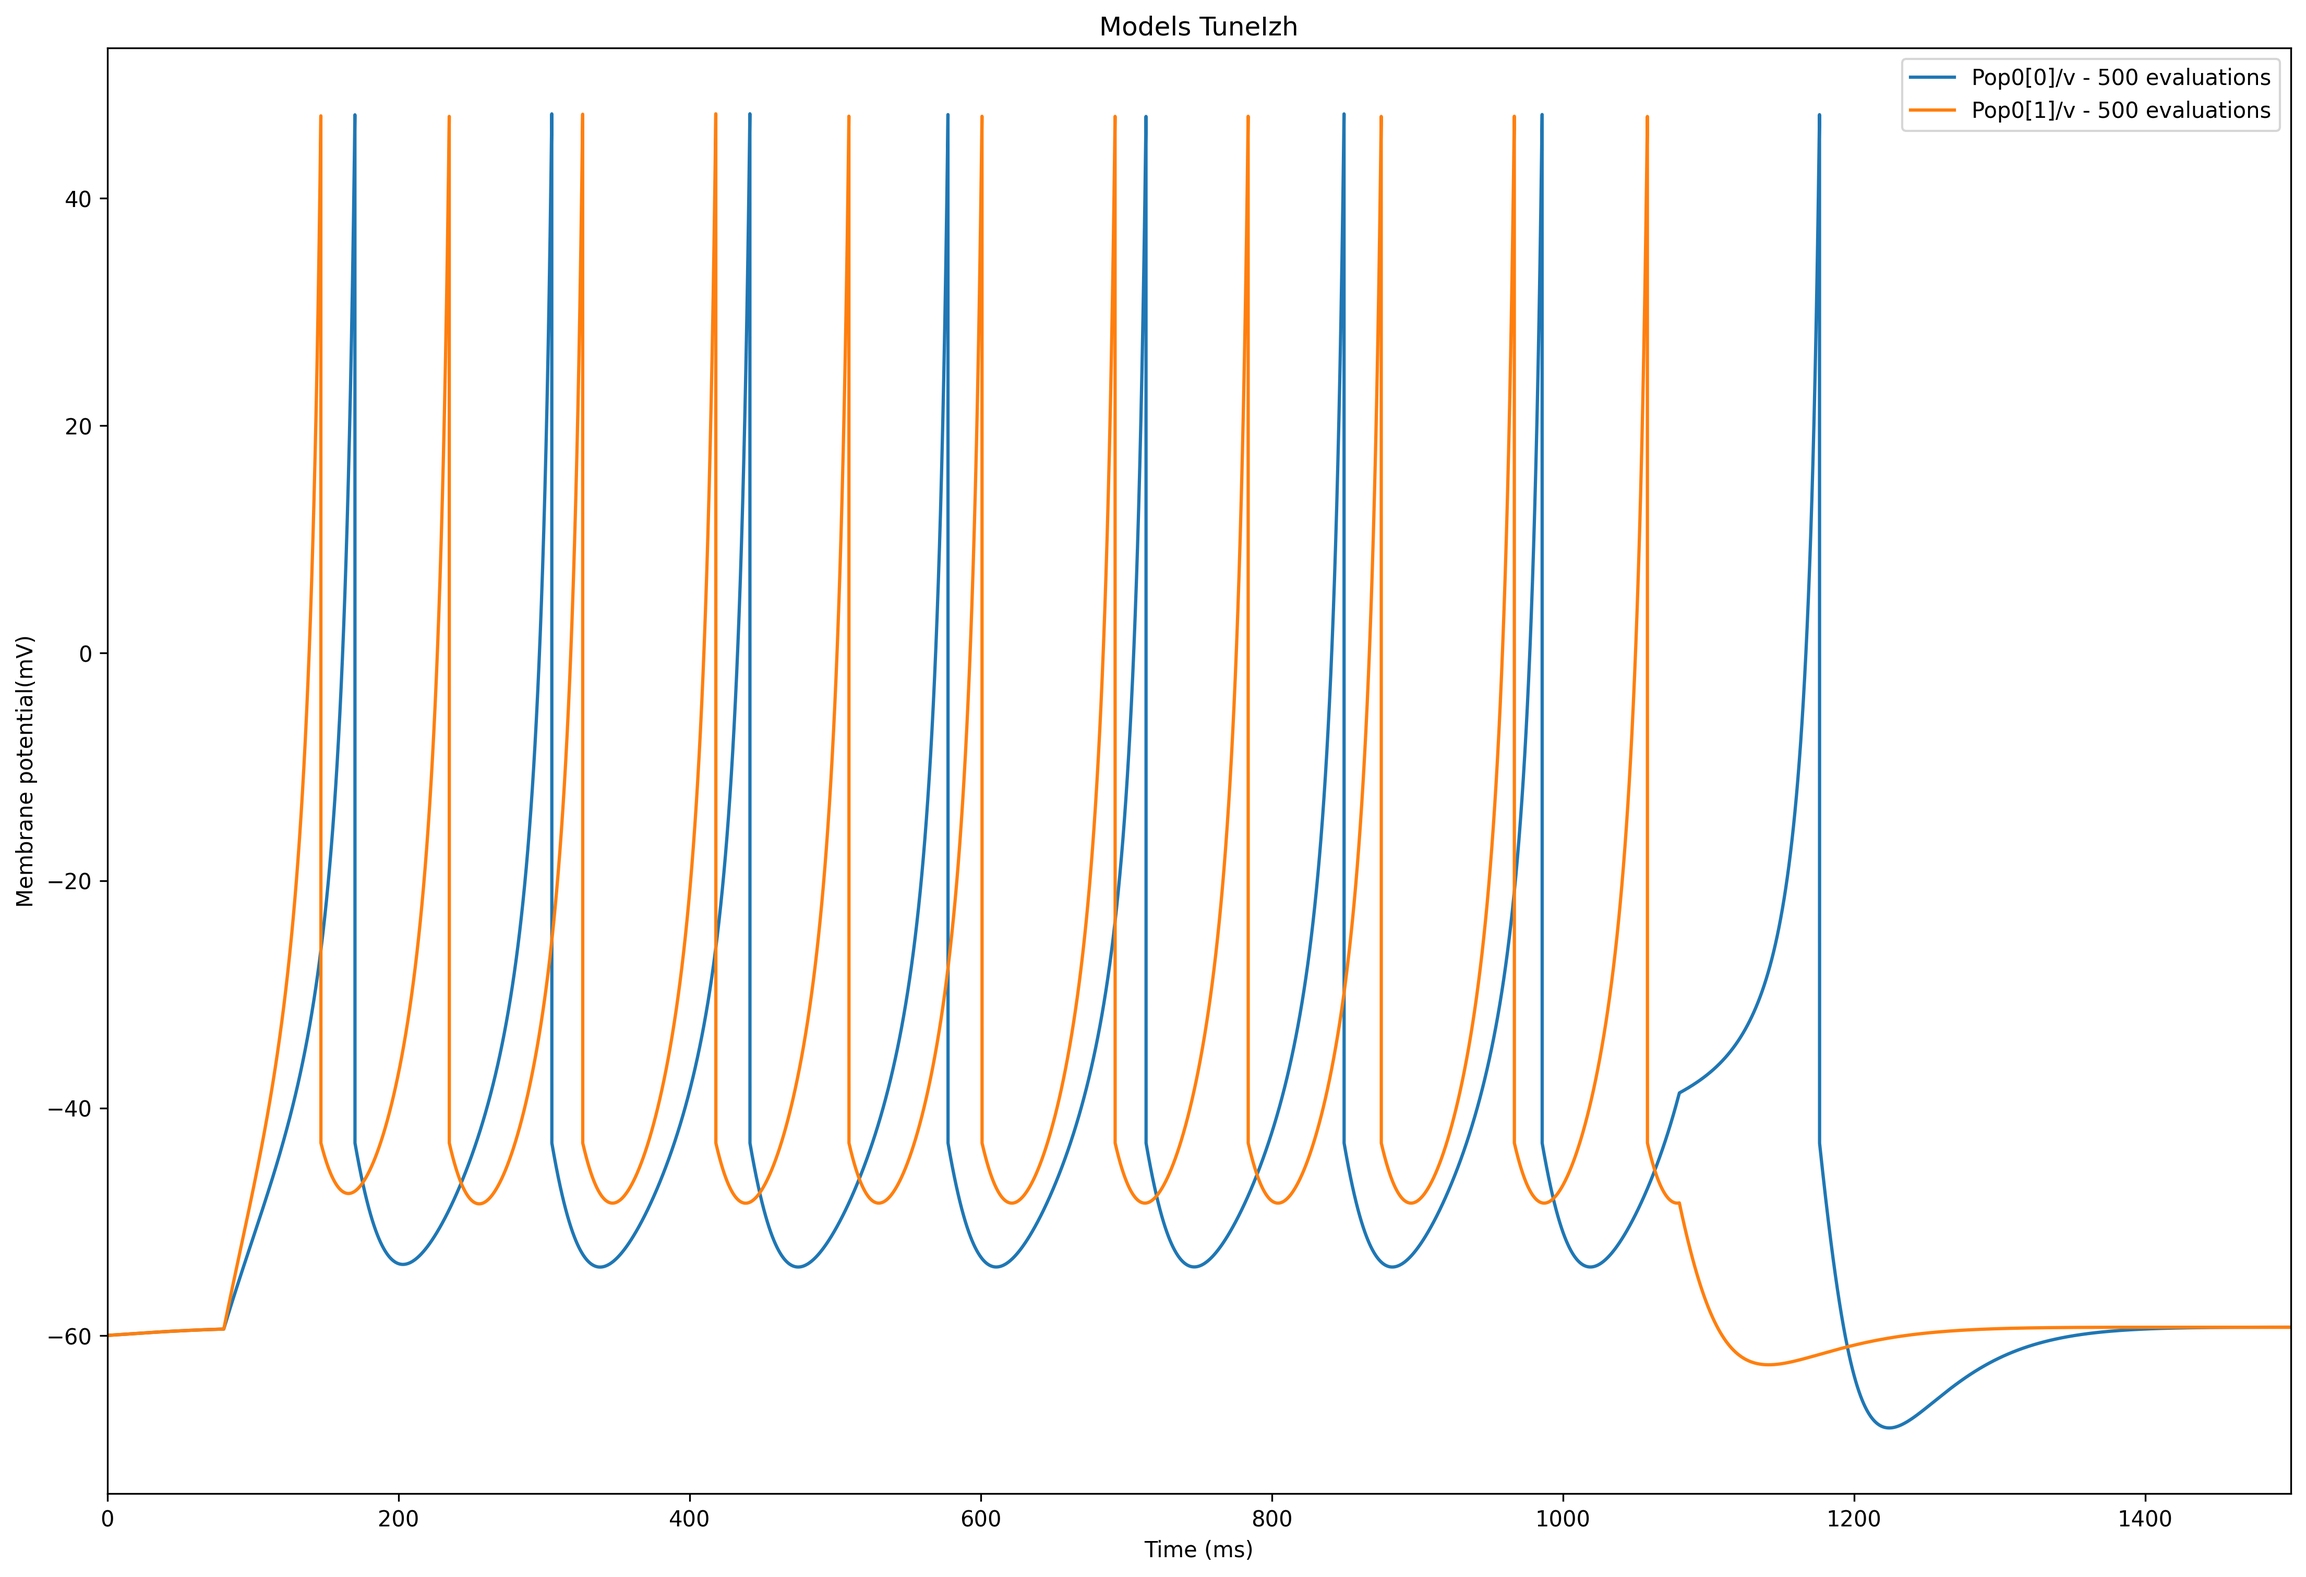
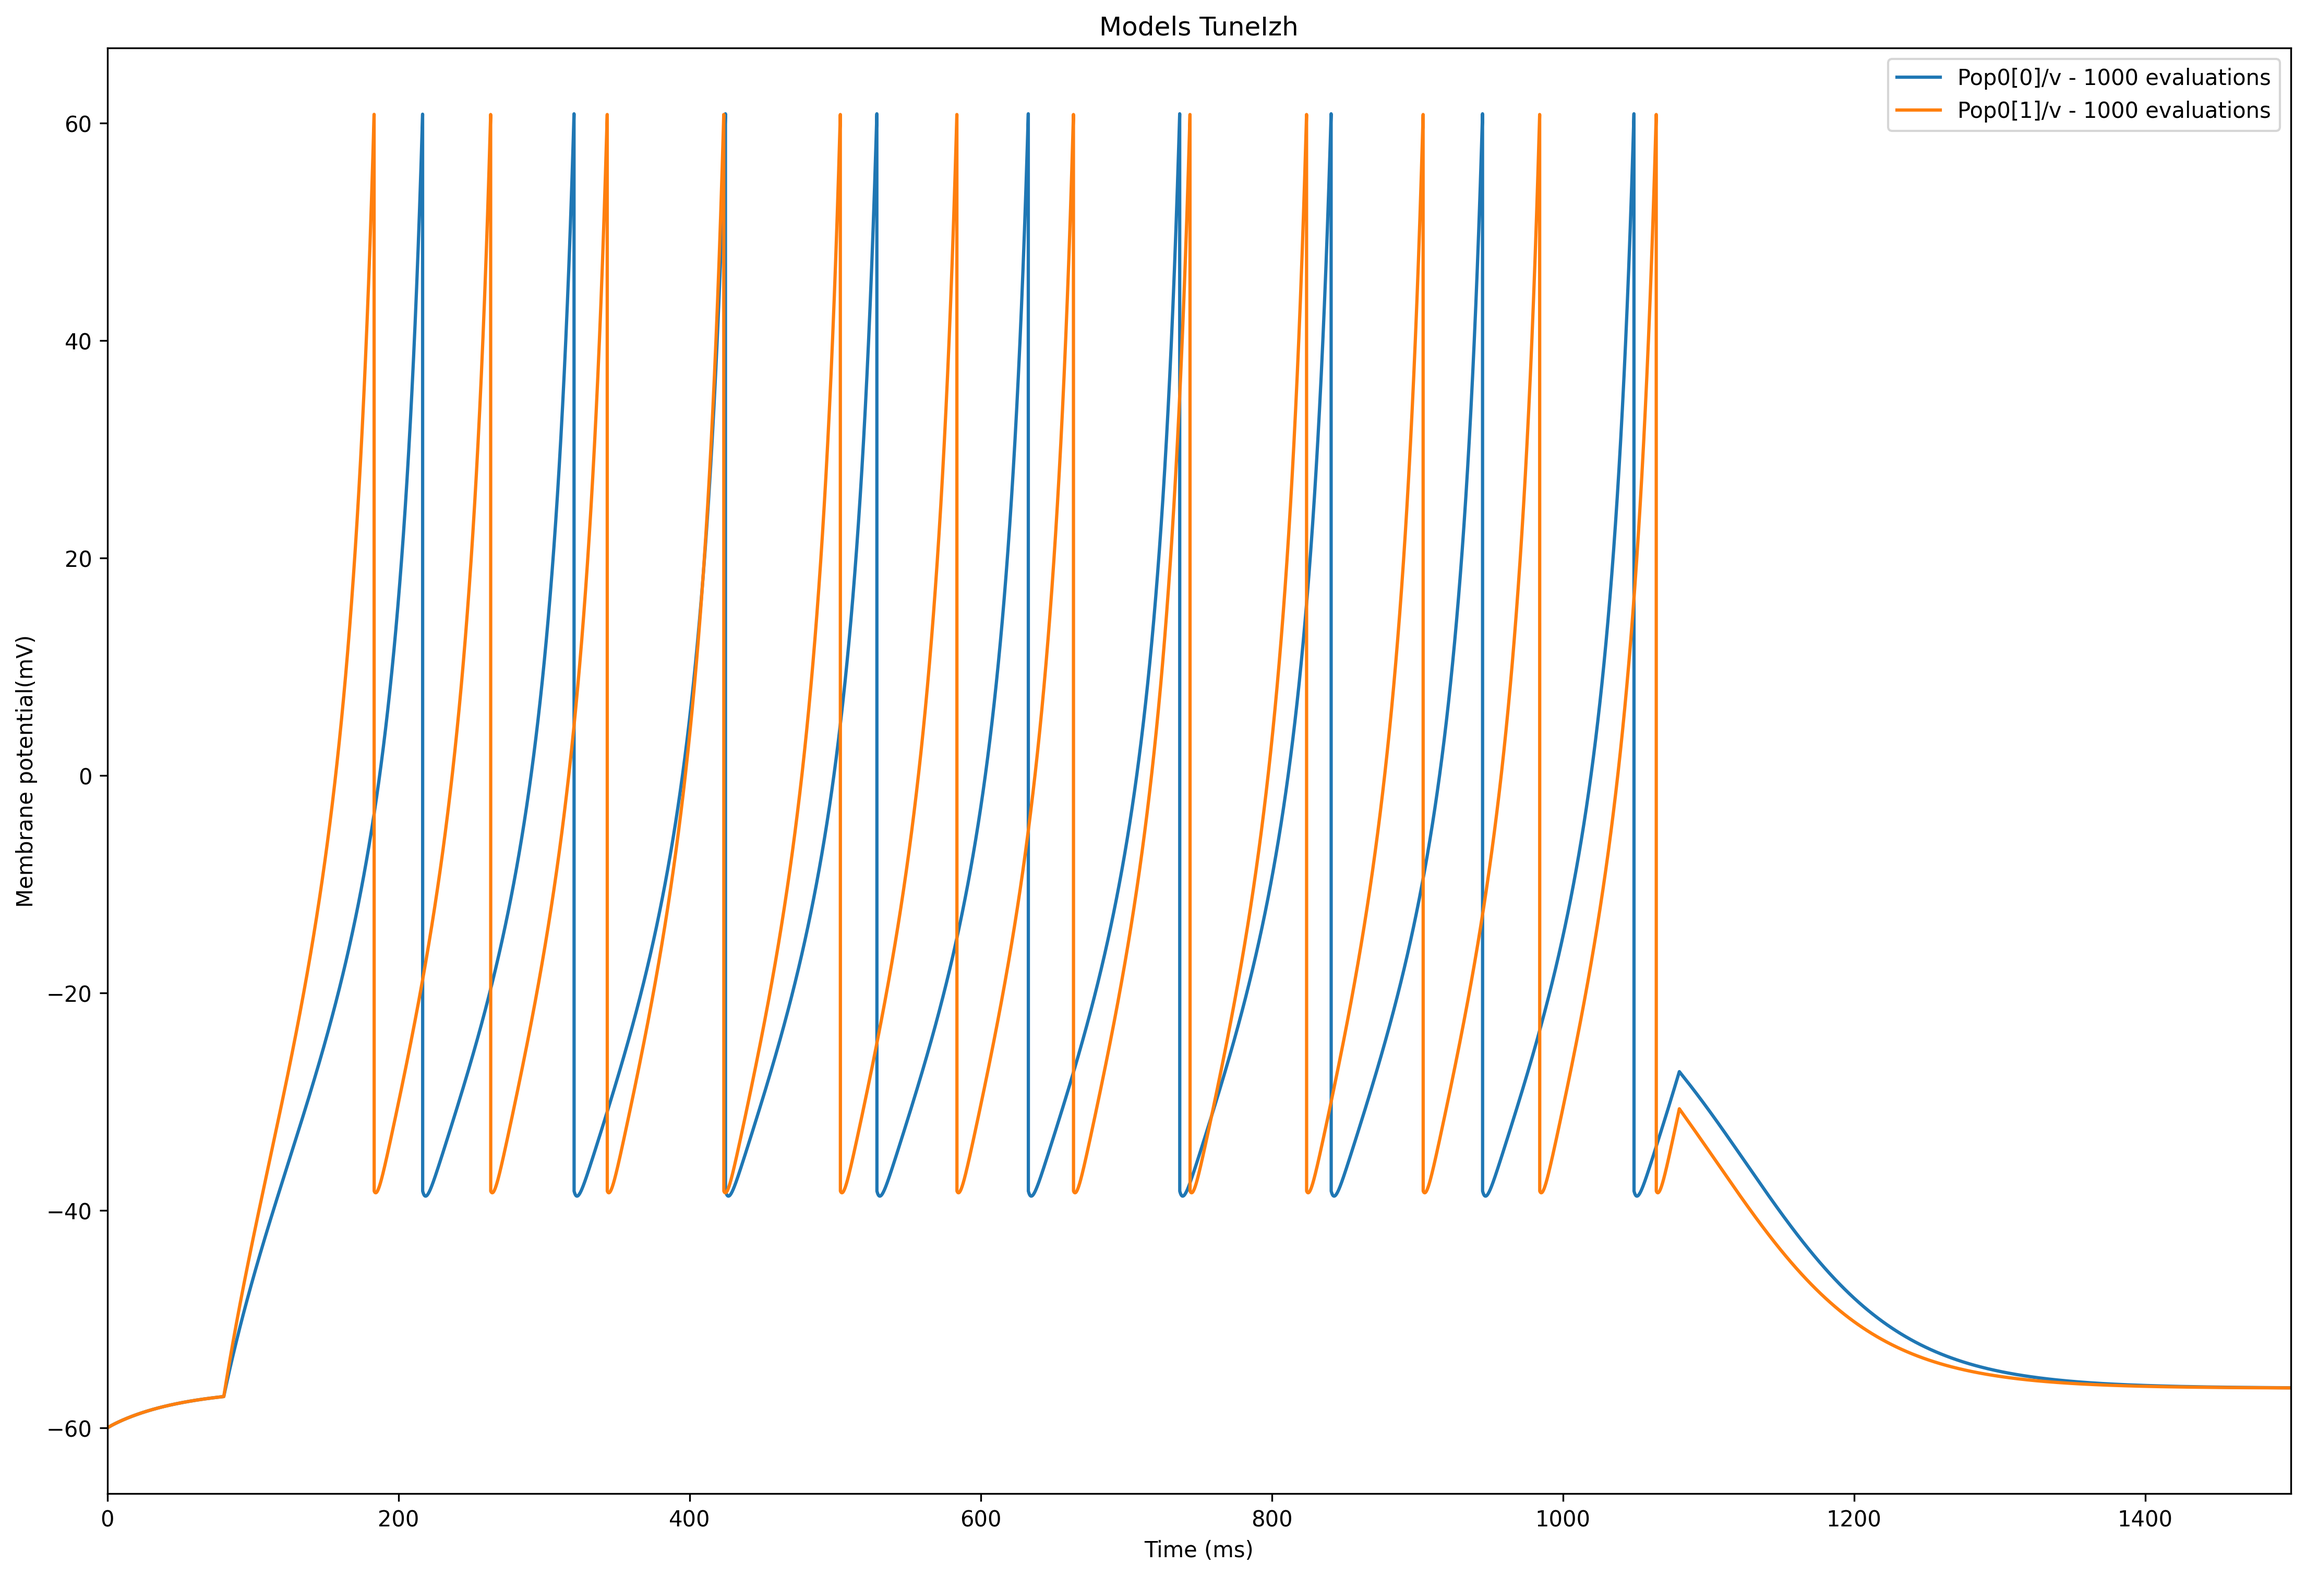
Tweaking params for izh

diff --git a/source/Userdocs/NML2_examples/tune-izhikevich.py b/source/Userdocs/NML2_examples/tune-izhikevich.py
@@ -157,13 +157,13 @@ def tune_izh_model(acq_list: List, metrics_from_data: Dict, currents: Dict) -> D
     parameters = {
         "izhikevich2007Cell:Izh2007/C/pF": (100, 300),
         "izhikevich2007Cell:Izh2007/k/nS_per_mV": (0.01, 2),
-        "izhikevich2007Cell:Izh2007/vr/mV": (-75, -50),
+        "izhikevich2007Cell:Izh2007/vr/mV": (-70, -50),
         "izhikevich2007Cell:Izh2007/vt/mV": (-60, 0),
-        "izhikevich2007Cell:Izh2007/vpeak/mV": (20, 70),
+        "izhikevich2007Cell:Izh2007/vpeak/mV": (35, 70),
         "izhikevich2007Cell:Izh2007/a/per_ms": (0.001, 0.4),
         "izhikevich2007Cell:Izh2007/b/nS": (-10, 10),
         "izhikevich2007Cell:Izh2007/c/mV": (-65, -10),
-        "izhikevich2007Cell:Izh2007/d/pA": (100, 300),
+        "izhikevich2007Cell:Izh2007/d/pA": (50, 500),
     }  # type: Dict[str, Tuple[float, float]]
 
     # Set up our target data and so on
@@ -230,10 +230,10 @@ def tune_izh_model(acq_list: List, metrics_from_data: Dict, currents: Dict) -> D
         sim_time=sim_time,
         # EC parameters
         population_size=100,
-        max_evaluations=500,
+        max_evaluations=1000,
         num_selected=30,
         num_offspring=50,
-        mutation_rate=0.2,
+        mutation_rate=0.9,
         num_elites=3,
         # Seed value
         seed=12345,
@@ -245,7 +245,7 @@ def tune_izh_model(acq_list: List, metrics_from_data: Dict, currents: Dict) -> D
         save_to_file_scatter="fitted_izhikevich_scatter.png",
         save_to_file_hist="fitted_izhikevich_hist.png",
         save_to_file_output="fitted_izhikevich_output.png",
-        num_parallel_evaluations=6,
+        num_parallel_evaluations=16,
     )
 
 
